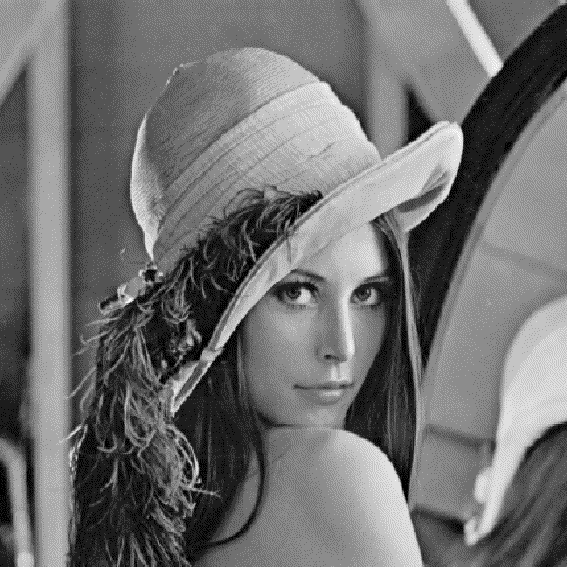
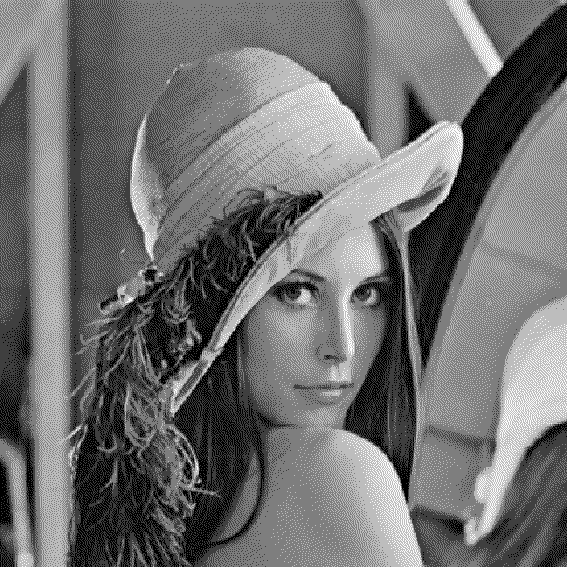
fixes

diff --git a/2024c-22913/mmn11/q3.py b/2024c-22913/mmn11/q3.py
@@ -36,7 +36,7 @@ def load_image(location):
     return image
 
 def create_palette(min_val, max_val, m):
-    """ Create a palette of m equally spread gray values between min_value and max_value """"
+    """ Create a palette of m equally spread gray values between min_value and max_value """
     step = (max_val - min_val) // (m - 1)
     palette = []
 

diff --git a/2024c-22913/mmn11/mmn11.md b/2024c-22913/mmn11/mmn11.md
@@ -52,9 +52,9 @@ $$
 
 # Answer to 3
 
-The code can be found [here](https://github.com/tglanz/bsc/blob/master/2024c-22913/mmn11/q3.py) with example [input](https://github.com/tglanz/bsc/blob/master/2024c-22913/mmn11/lena.png) and [output](https://github.com/tglanz/bsc/blob/master/2024c-22913/mmn11/lena.diffused.png).
+The code below can also be found [here](https://github.com/tglanz/bsc/blob/master/2024c-22913/mmn11/q3.py) with example [input](https://github.com/tglanz/bsc/blob/master/2024c-22913/mmn11/lena.png) and [output](https://github.com/tglanz/bsc/blob/master/2024c-22913/mmn11/lena.diffused.png).
 
-An example of execution (load lena.png and use 4 gray levels):
+An example of execution (lozd the image from `lena.png` and use `5` gray levels):
 
     python q3.py lena.png 5
 
@@ -97,7 +97,7 @@ def load_image(location):
     return image
 
 def create_palette(min_val, max_val, m):
-    """ Create a palette of m equally spread gray values between min_value and max_value """"
+    """ Create a palette of m equally spread gray values between min_value and max_value """
     step = (max_val - min_val) // (m - 1)
     palette = []
 
